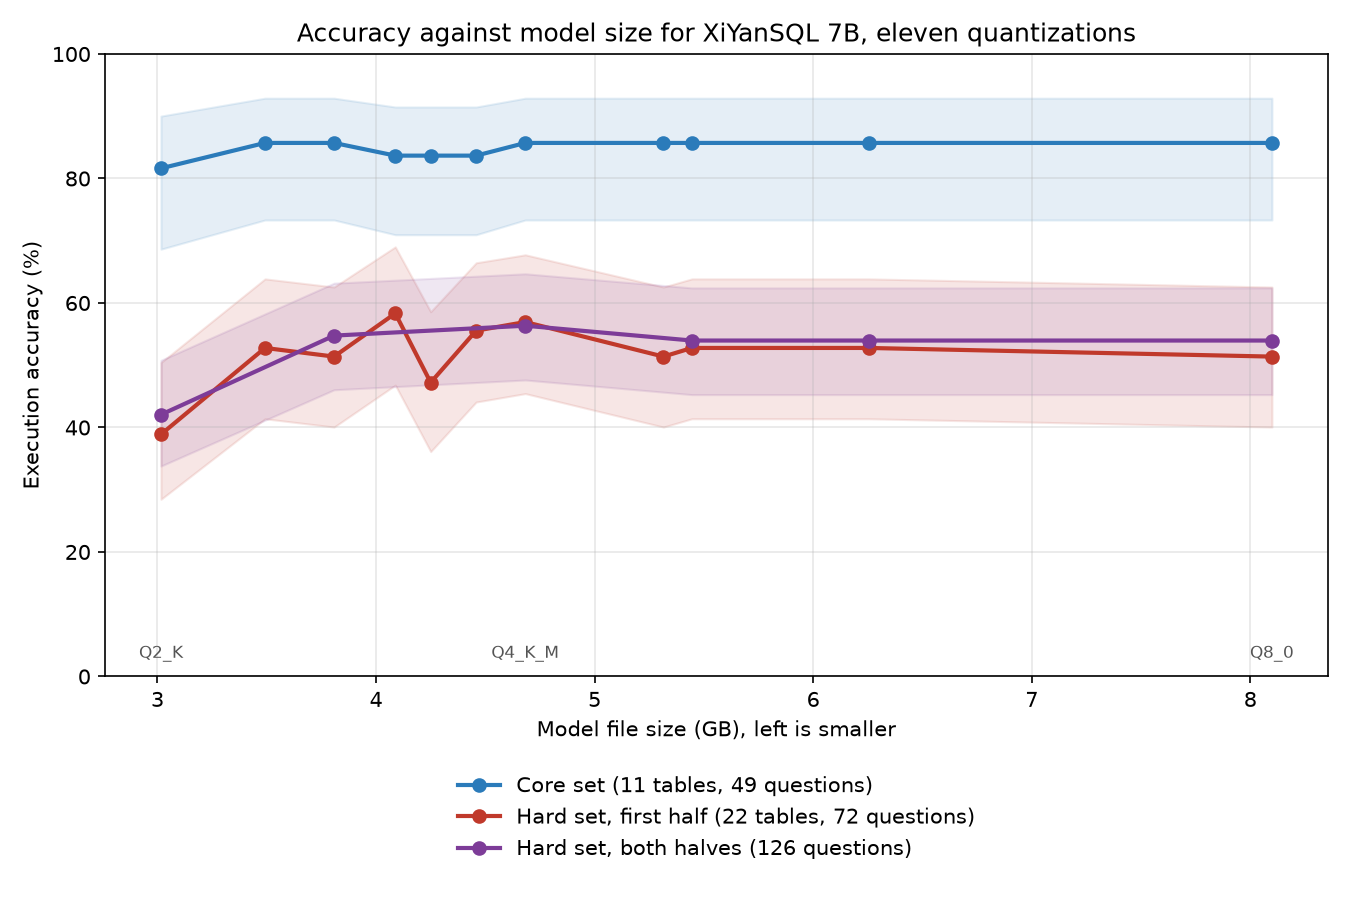
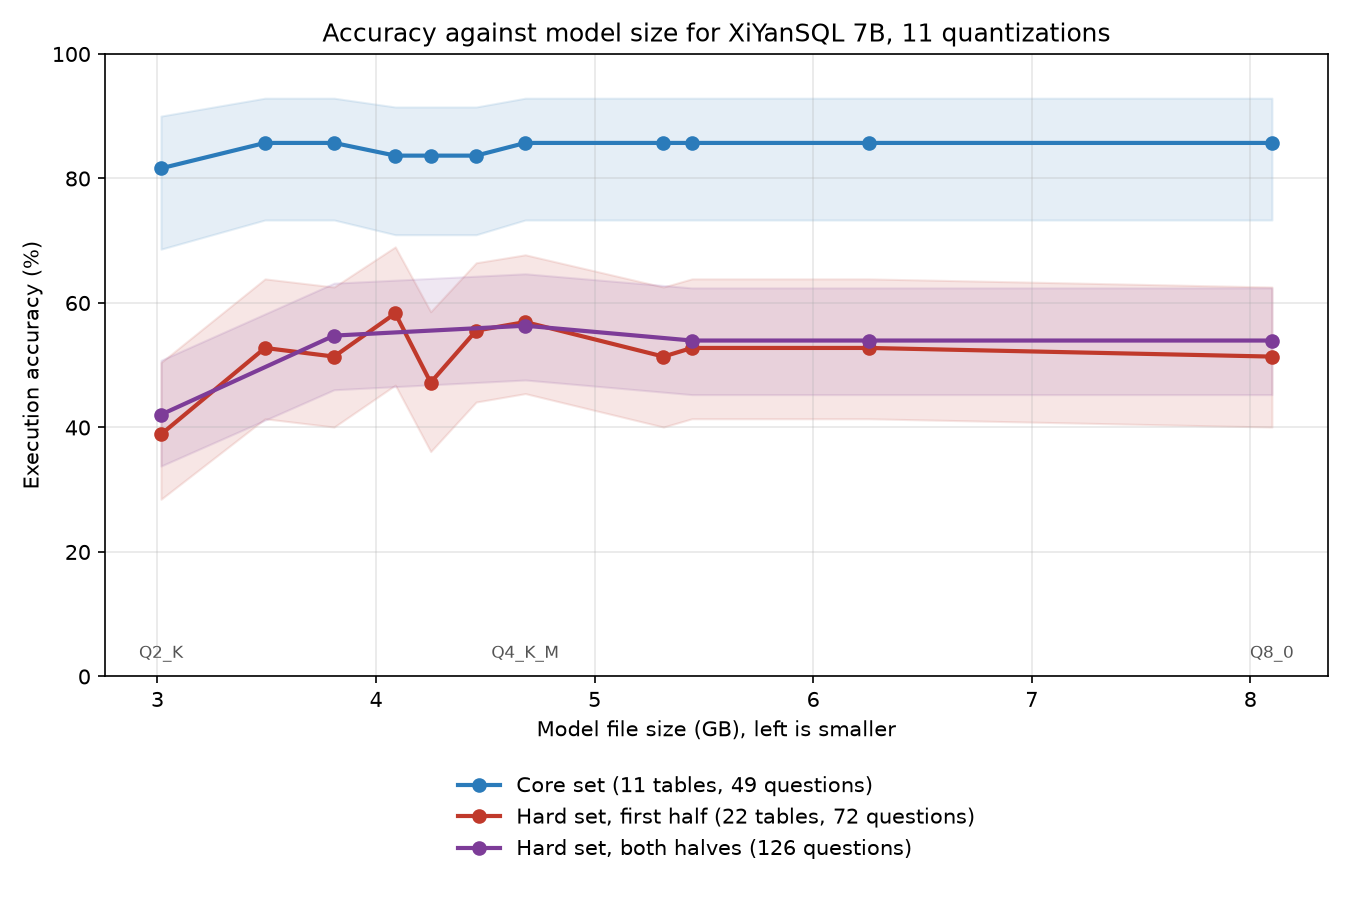
Repeat runs and a 4B quantization ladder on the stress set; analysis for two model families

Changed region(s): [[0.2178, 0.0, 0.84, 0.0622]]

diff --git a/scripts/analyze_sweep.py b/scripts/analyze_sweep.py
@@ -21,10 +21,15 @@ OUT = ROOT / "docs" / "results"
 FILE_GB = {"Q2_K": 3.016, "Q3_K_S": 3.492, "Q3_K_M": 3.808, "Q3_K_L": 4.088, "IQ4_XS": 4.250, "Q4_K_S": 4.458, "Q4_K_M": 4.683,
            "Q5_K_S": 5.315, "Q5_K_M": 5.445, "Q6_K": 6.254, "Q8_0": 8.099}
 ORDER = sorted(FILE_GB, key=FILE_GB.get)
+FAMILY = "xiyan7b"
+FAMILIES = {
+    "xiyan7b": ("XiYanSQL 7B", FILE_GB),
+    "qwen4b": ("Qwen3-4B-Instruct general model", {"Q2_K": 1.669, "Q3_K_S": 1.887, "Q3_K_M": 2.076, "Q4_K_M": 2.497, "Q6_K": 3.306, "Q8_0": 4.280}),
+}
 
 
 def label(quant: str, kind: str) -> str:
-    return f"xiyan7b-{quant.lower().replace('_', '')}" + ("" if kind == "core" else f"-{kind}")
+    return f"{FAMILY}-{quant.lower().replace('_', '')}" + ("" if kind == "core" else f"-{kind}")
 
 
 def load_kind(quant: str, kind: str) -> dict | None:
@@ -113,13 +118,13 @@ def categories(kind: str) -> dict:
 
 
 def markdown(results: list[dict]) -> str:
-    lines = ["# Quantization against difficulty: XiYanSQL-QwenCoder-7B-2504, eleven levels, two question sets", "",
+    lines = [f"# Quantization against difficulty: {FAMILIES[FAMILY][0]}, {len(ORDER)} levels", "",
              "Accuracy is the share of answerable questions whose query returned the right result. Intervals are Wilson 95 percent. "
              "Gains and losses are questions a level got right that Q8_0 got wrong, and the reverse; p is the exact two-sided sign test on those "
              "discordant questions (McNemar's exact test). A small p says the flips went one way more than chance would.", ""]
     for res in results:
         name = {"core": "Core set (49 answerable questions, 11 tables)", "hard": "Hard set, first half (72 questions, 22 tables)",
-                "hard2": "Hard set, second half (54 questions, 22 tables)", "hardall": "Hard set, both halves together (126 questions, six levels)"}[res["kind"]]
+                "hard2": "Hard set, second half (54 questions, 22 tables)", "hardall": "Hard set, both halves together (126 questions)"}[res["kind"]]
         lines += [f"## {name}", "", "| Level | File GB | Correct | Accuracy | 95% interval | SQL errors | Gains vs Q8_0 | Losses vs Q8_0 | Net | p (sign test) |", "|---|---|---|---|---|---|---|---|---|---|"]
         for q in reversed(ORDER):
             t = res["table"].get(q)
@@ -154,7 +159,7 @@ def chart(results: list[dict]) -> None:
         ax.fill_between(xs, lo, hi, color=colors[res["kind"]], alpha=0.12)
     ax.set_xlabel("Model file size (GB), left is smaller")
     ax.set_ylabel("Execution accuracy (%)")
-    ax.set_title("Accuracy against model size for XiYanSQL 7B, eleven quantizations")
+    ax.set_title(f"Accuracy against model size for {FAMILIES[FAMILY][0]}, {len(ORDER)} quantizations")
     ax.grid(alpha=0.3)
     ax.legend(loc="upper center", bbox_to_anchor=(0.5, -0.13), frameon=False)
     ax.set_ylim(0, 100)
@@ -162,16 +167,22 @@ def chart(results: list[dict]) -> None:
         ax.annotate(q, (FILE_GB[q], 3), ha="center", fontsize=8, color="#555")
     fig.tight_layout()
     OUT.mkdir(parents=True, exist_ok=True)
-    fig.savefig(OUT / "quant_curve.png")
+    fig.savefig(OUT / ("quant_curve.png" if FAMILY == "xiyan7b" else f"quant_curve_{FAMILY}.png"))
 
 
 def main() -> int:
+    global FAMILY, FILE_GB, ORDER
+    if len(sys.argv) > 1:
+        FAMILY = sys.argv[1]
+        FILE_GB = FAMILIES[FAMILY][1]
+        ORDER = sorted(FILE_GB, key=FILE_GB.get)
     results = [r for r in (analyse("core"), analyse("hard"), analyse("hard2"), analyse("hardall")) if r]
     if not results:
         print("no runs found")
         return 1
     OUT.mkdir(parents=True, exist_ok=True)
-    (OUT / "quant_analysis.md").write_text(markdown(results), encoding="utf-8")
+    suffix = "" if FAMILY == "xiyan7b" else f"_{FAMILY}"
+    (OUT / f"quant_analysis{suffix}.md").write_text(markdown(results), encoding="utf-8")
     chart(results)
     print(markdown(results))
     return 0

diff --git a/scripts/quant_sweep.py b/scripts/quant_sweep.py
@@ -65,6 +65,7 @@ def main() -> int:
     ap.add_argument("--gpu", default="0.55")
     ap.add_argument("--context", default="8192")
     ap.add_argument("--max-tokens", default="1024")
+    ap.add_argument("--tag", default="", help="suffix for a repeat run, for example -rep1, so the first run's saved answers are kept")
     ap.add_argument("--set", choices=["core", "hard", "hard2"], default="core", help="which question set to run")
     args = ap.parse_args()
 
@@ -78,7 +79,7 @@ def main() -> int:
     env = {"LMSTUDIO_BASE_URL": port_url or "http://127.0.0.1:1234/v1"}
     import os
     env = {**os.environ, **env}
-    suffix = "" if args.set == "core" else f"-{args.set}"
+    suffix = ("" if args.set == "core" else f"-{args.set}") + args.tag
     table_path = RUNS / f"{args.family}{suffix}-sweep.json"
     table = json.loads(table_path.read_text()) if table_path.exists() else {}
 

diff --git a/README.md b/README.md
@@ -103,5 +103,23 @@ The core questions above are easy enough that every level looked the same. A str
 (The first 72 hard questions were also run on all eleven levels; the extra 54 on the six shown. The first half alone gave the same picture: Q2_K 28 of 72 against 37 for Q8_0, p 0.093, with every other level between 34 and 42.)
 
 - **From 8-bit down to 3-bit the hard set shows no measurable loss.** Q6_K, Q5_K_M, Q4_K_M and Q3_K_M score within 3 questions of Q8_0, and every comparison has p above 0.5. A model file 53 percent smaller (Q3_K_M) answered the hard questions as well as the 8-bit one.
-- **At 2-bit the hard questions show a drop the easy ones hid.** On the core set Q2_K lost 2 of 49 (p 0.5, indistinguishable from noise). On the hard set it lost 12 points, 15 questions net (it got 25 right that Q8_0 got right and 10 that Q8_0 got wrong, p 0.017), and its invalid SQL rose from 21 to 31 answers. By category the damage is concentrated in correlated subqueries (3 of 14 against 8 of 14), window functions (2 against 5), questions with a definition in the text (2 against 5) and choosing the right table among look-alikes (11 against 14); pivots and joins held.
-- **Read the p value with care.** The 0.017 is for one comparison out of five made against Q8_0; corrected for five comparisons it is about 0.085, so the 2-bit drop is suggestive and consistent across both halves of the stress set, not proven. Only the one 7B model was swept, and the 7B model's output is not perfectly repeatable run to run (4 of 55 answers changed between two runs of the same file).
+- **At 2-bit the hard questions show a drop the easy ones hid.** On the core set Q2_K lost 2 of 49 (p 0.5, indistinguishable from noise). On the hard set it lost 12 points, 15 questions net (it missed 25 questions that Q8_0 got right and got 10 right that Q8_0 missed, p 0.017), and its invalid SQL rose from 21 to 31 answers. By category the damage is concentrated in correlated subqueries (3 of 14 against 8 of 14), window functions (2 against 5), questions with a definition in the text (2 against 5) and choosing the right table among look-alikes (11 against 14); pivots and joins held.
+- **Read the p value with care.** The 0.017 is for one comparison out of five made against Q8_0; corrected for five comparisons it is about 0.085, so the 2-bit drop is suggestive and consistent across both halves of the stress set, not proven. Only the one 7B model was swept for this table. Repeating the Q8_0 and Q2_K runs on the whole hard set gave the same 126 queries again for both files (`xiyan7b-*-rep1` in `docs/results/models/`), so the gap is not run-to-run noise; an earlier repeat on the core set had changed 4 of 55 answer texts, with the same pass or fail outcomes.
+
+### Do smaller models break sooner? The 4B model does
+
+The research the sweep was built on says smaller models are more fragile under compression. To test that, the same 126 hard questions were run on six levels of a 4B general model (Qwen3-4B-Instruct-2507, from the same publisher and recipe family as the 7B ladder; Q5_K_M did not finish downloading and is not included). Full tables are in `docs/results/quant_analysis_qwen4b.md` and `quant_curve_qwen4b.png`.
+
+| Level | File | Hard set, 126 questions | SQL errors | vs Q8_0 (gains, losses, p) |
+|---|---|---|---|---|
+| Q8_0 | 4.28 GB | 69 (54.8%) | 25 | reference |
+| Q6_K | 3.31 GB | 65 (51.6%) | 25 | 5, 9, p 0.42 |
+| Q4_K_M | 2.50 GB | 65 (51.6%) | 24 | 10, 14, p 0.54 |
+| Q3_K_M | 2.08 GB | 37 (29.4%) | 49 | 6, 38, p < 0.001 |
+| Q3_K_S | 1.89 GB | 53 (42.1%) | 35 | 17, 33, p 0.033 |
+| **Q2_K** | 1.67 GB | **1 (0.8%)** | 23 | 0, 68, p < 0.001 |
+
+- **The 4B model holds to 4-bit and then breaks one step earlier than the 7B.** The 7B model kept its score at 3-bit and slipped at 2-bit; the 4B model loses about 25 points at Q3_K_M and nearly everything at Q2_K.
+- **The 2-bit 4B model mostly stops answering.** On the first 72 questions it replied with the prompt's decline template (`-- UNANSWERABLE`) 56 times, including on questions the 8-bit file answered correctly. The raw outputs were checked; this is what the model wrote, not an extraction problem.
+- **The curve is not smooth.** Q3_K_S (42.1%) scored above Q3_K_M (29.4%) although it is smaller. Different quantization recipes damage different layers, so file size alone does not predict accuracy at low bit widths; test the exact file you intend to deploy.
+- Same caveats as before: one dataset, one author, 126 questions, and p values not corrected for the five comparisons per model (the two below 0.001 would survive that; 0.033 would not).

diff --git a/docs/results/quant_analysis_qwen4b.md b/docs/results/quant_analysis_qwen4b.md
@@ -1,0 +1,64 @@
+# Quantization against difficulty: Qwen3-4B-Instruct general model, 6 levels
+
+Accuracy is the share of answerable questions whose query returned the right result. Intervals are Wilson 95 percent. Gains and losses are questions a level got right that Q8_0 got wrong, and the reverse; p is the exact two-sided sign test on those discordant questions (McNemar's exact test). A small p says the flips went one way more than chance would.
+
+## Hard set, first half (72 questions, 22 tables)
+
+| Level | File GB | Correct | Accuracy | 95% interval | SQL errors | Gains vs Q8_0 | Losses vs Q8_0 | Net | p (sign test) |
+|---|---|---|---|---|---|---|---|---|---|
+| Q8_0 | 4.28 | 39/72 | 54.2% | 43 to 65% | 13 | 0 | 0 | +0 | 1.000 |
+| Q6_K | 3.31 | 36/72 | 50.0% | 39 to 61% | 12 | 2 | 5 | -3 | 0.453 |
+| Q4_K_M | 2.50 | 37/72 | 51.4% | 40 to 63% | 12 | 4 | 6 | -2 | 0.754 |
+| Q3_K_M | 2.08 | 24/72 | 33.3% | 24 to 45% | 30 | 5 | 20 | -15 | 0.004 |
+| Q3_K_S | 1.89 | 27/72 | 37.5% | 27 to 49% | 20 | 10 | 22 | -12 | 0.050 |
+| Q2_K | 1.67 | 1/72 | 1.4% | 0 to 7% | 15 | 0 | 38 | -38 | 0.000 |
+
+## Hard set, second half (54 questions, 22 tables)
+
+| Level | File GB | Correct | Accuracy | 95% interval | SQL errors | Gains vs Q8_0 | Losses vs Q8_0 | Net | p (sign test) |
+|---|---|---|---|---|---|---|---|---|---|
+| Q8_0 | 4.28 | 30/54 | 55.6% | 42 to 68% | 12 | 0 | 0 | +0 | 1.000 |
+| Q6_K | 3.31 | 29/54 | 53.7% | 41 to 66% | 13 | 3 | 4 | -1 | 1.000 |
+| Q4_K_M | 2.50 | 28/54 | 51.9% | 39 to 65% | 12 | 6 | 8 | -2 | 0.791 |
+| Q3_K_M | 2.08 | 13/54 | 24.1% | 15 to 37% | 19 | 1 | 18 | -17 | 0.000 |
+| Q3_K_S | 1.89 | 26/54 | 48.1% | 35 to 61% | 15 | 7 | 11 | -4 | 0.481 |
+| Q2_K | 1.67 | 0/54 | 0.0% | 0 to 7% | 8 | 0 | 30 | -30 | 0.000 |
+
+## Hard set, both halves together (126 questions)
+
+| Level | File GB | Correct | Accuracy | 95% interval | SQL errors | Gains vs Q8_0 | Losses vs Q8_0 | Net | p (sign test) |
+|---|---|---|---|---|---|---|---|---|---|
+| Q8_0 | 4.28 | 69/126 | 54.8% | 46 to 63% | 25 | 0 | 0 | +0 | 1.000 |
+| Q6_K | 3.31 | 65/126 | 51.6% | 43 to 60% | 25 | 5 | 9 | -4 | 0.424 |
+| Q4_K_M | 2.50 | 65/126 | 51.6% | 43 to 60% | 24 | 10 | 14 | -4 | 0.541 |
+| Q3_K_M | 2.08 | 37/126 | 29.4% | 22 to 38% | 49 | 6 | 38 | -32 | 0.000 |
+| Q3_K_S | 1.89 | 53/126 | 42.1% | 34 to 51% | 35 | 17 | 33 | -16 | 0.033 |
+| Q2_K | 1.67 | 1/126 | 0.8% | 0 to 4% | 23 | 0 | 68 | -68 | 0.000 |
+
+## Per category, hard set (correct / questions)
+
+| Category | Q8_0 | Q6_K | Q4_K_M | Q3_K_M | Q3_K_S | Q2_K |
+|---|---|---|---|---|---|---|
+| correlated | 4/8 | 5/8 | 5/8 | 3/8 | 4/8 | 0/8 |
+| cte_multistep | 3/8 | 2/8 | 2/8 | 2/8 | 0/8 | 0/8 |
+| evidence | 2/8 | 1/8 | 2/8 | 2/8 | 2/8 | 0/8 |
+| multi_join | 4/8 | 4/8 | 5/8 | 3/8 | 3/8 | 1/8 |
+| pivot | 5/8 | 5/8 | 5/8 | 4/8 | 4/8 | 0/8 |
+| set_ops | 5/8 | 4/8 | 5/8 | 2/8 | 1/8 | 0/8 |
+| time_bucket | 5/8 | 4/8 | 2/8 | 2/8 | 4/8 | 0/8 |
+| wide_schema | 8/8 | 8/8 | 7/8 | 5/8 | 6/8 | 0/8 |
+| window | 3/8 | 3/8 | 4/8 | 1/8 | 3/8 | 0/8 |
+
+## Per category, hardall set (correct / questions)
+
+| Category | Q8_0 | Q6_K | Q4_K_M | Q3_K_M | Q3_K_S | Q2_K |
+|---|---|---|---|---|---|---|
+| correlated | 9/14 | 9/14 | 7/14 | 6/14 | 8/14 | 0/14 |
+| cte_multistep | 5/14 | 3/14 | 2/14 | 2/14 | 0/14 | 0/14 |
+| evidence | 6/14 | 4/14 | 8/14 | 3/14 | 5/14 | 0/14 |
+| multi_join | 7/14 | 7/14 | 8/14 | 3/14 | 6/14 | 1/14 |
+| pivot | 9/14 | 8/14 | 8/14 | 6/14 | 6/14 | 0/14 |
+| set_ops | 9/14 | 8/14 | 10/14 | 3/14 | 4/14 | 0/14 |
+| time_bucket | 6/14 | 6/14 | 4/14 | 3/14 | 7/14 | 0/14 |
+| wide_schema | 14/14 | 14/14 | 13/14 | 10/14 | 11/14 | 0/14 |
+| window | 4/14 | 6/14 | 5/14 | 1/14 | 6/14 | 0/14 |

diff --git a/docs/results/quant_analysis.md b/docs/results/quant_analysis.md
@@ -1,4 +1,4 @@
-# Quantization against difficulty: XiYanSQL-QwenCoder-7B-2504, eleven levels, two question sets
+# Quantization against difficulty: XiYanSQL 7B, 11 levels
 
 Accuracy is the share of answerable questions whose query returned the right result. Intervals are Wilson 95 percent. Gains and losses are questions a level got right that Q8_0 got wrong, and the reverse; p is the exact two-sided sign test on those discordant questions (McNemar's exact test). A small p says the flips went one way more than chance would.
 
@@ -45,7 +45,7 @@ Accuracy is the share of answerable questions whose query returned the right res
 | Q3_K_M | 3.81 | 32/54 | 59.3% | 46 to 71% | 8 | 3 | 2 | +1 | 1.000 |
 | Q2_K | 3.02 | 25/54 | 46.3% | 34 to 59% | 10 | 3 | 9 | -6 | 0.146 |
 
-## Hard set, both halves together (126 questions, six levels)
+## Hard set, both halves together (126 questions)
 
 | Level | File GB | Correct | Accuracy | 95% interval | SQL errors | Gains vs Q8_0 | Losses vs Q8_0 | Net | p (sign test) |
 |---|---|---|---|---|---|---|---|---|---|
